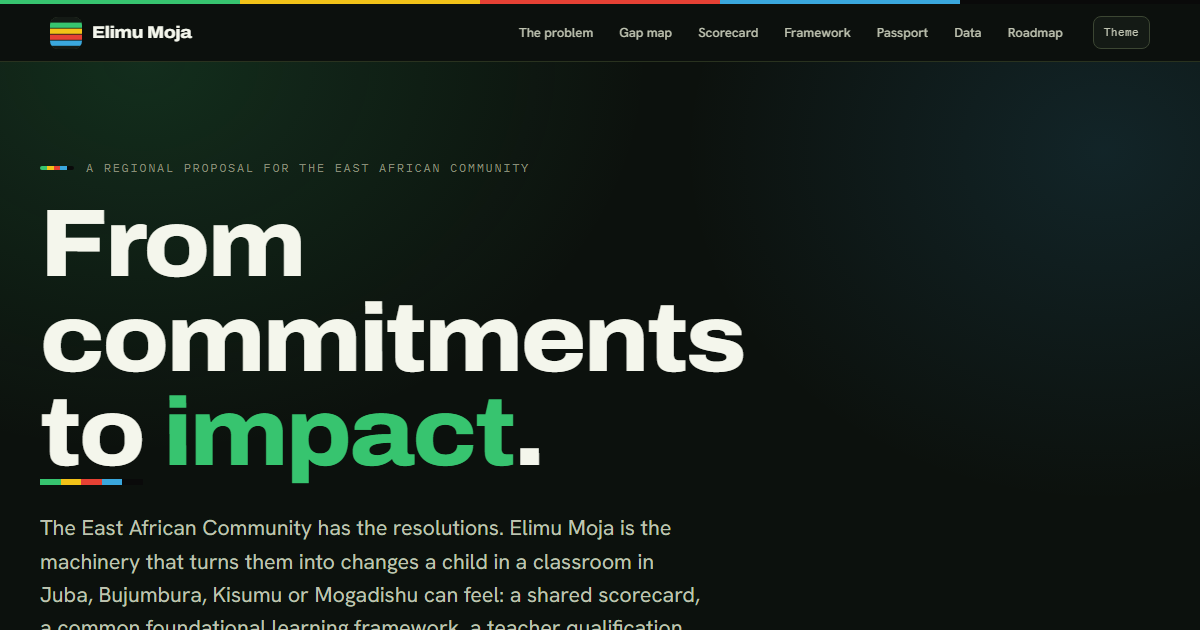
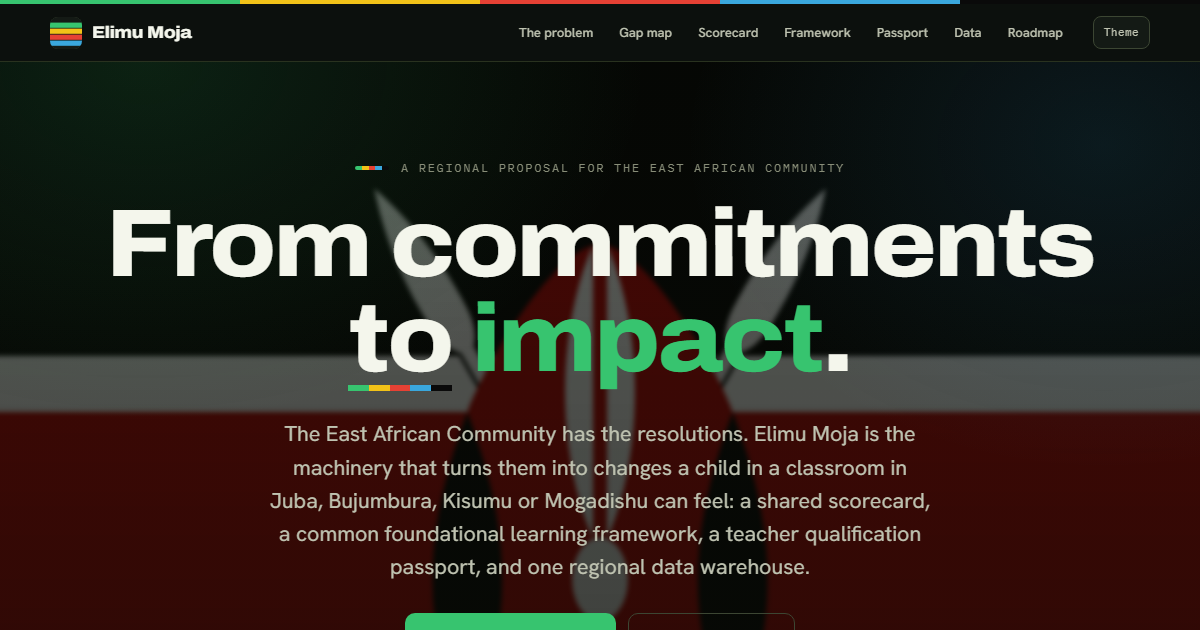
Hero: centered, real national flags cycling behind
- Centre-align the entire hero (eyebrow, headline, sub, buttons,
  flag strip, stat band)
- Hero background is now a slideshow of the eight real national
  flag SVGs (assets/flags/), cross-fading behind a dark scrim
- "Why the region is stuck" is now an interactive regional map:
  each of the eight countries is drawn as a shape filled with its
  real flag; click a country for a panel explaining how the four
  shared problems play out there; the problem tags highlight every
  affected country on the map
- Flags from flagcdn.com (free, no attribution required)

diff --git a/index.html b/index.html
@@ -71,6 +71,7 @@
   --critical: #d03b3b;
 
   --focus:    var(--fg-blue);
+  --hero-scrim: linear-gradient(to bottom, rgba(9,12,7,.58), rgba(9,12,7,.86));
 
   /* per-section accent, overridden inline on each <section> */
   --sa: var(--fg-green);
@@ -117,6 +118,7 @@
   --on-accent:   #f6fbf4;
 
   --focus:    #1a76a6;
+  --hero-scrim: linear-gradient(to bottom, rgba(248,248,243,.78), rgba(248,248,243,.93));
   --sa-soft: color-mix(in srgb, var(--sa) 12%, var(--bg));
 }
 
@@ -196,24 +198,50 @@ sup{ font-size:.66em; line-height:0; }
 .mobile-nav a:last-child{ border-bottom:0; }
 
 /* ---------- hero ---------- */
-.hero{ position:relative; overflow:hidden; padding:clamp(52px,8vw,110px) clamp(16px,4vw,40px) clamp(44px,6vw,84px); }
-.hero::before{
-  content:""; position:absolute; inset:0;
-  background:
-    radial-gradient(60% 50% at 12% 0%, color-mix(in srgb, var(--fg-green) 16%, transparent), transparent 70%),
-    radial-gradient(50% 45% at 92% 8%, color-mix(in srgb, var(--fg-blue) 13%, transparent), transparent 70%);
-  pointer-events:none;
+.hero{ position:relative; overflow:hidden; padding:clamp(56px,8vw,116px) clamp(16px,4vw,40px) clamp(48px,6vw,88px); }
+.hero-bg{ position:absolute; inset:0; z-index:0; overflow:hidden; background:#0a0d08; }
+.hero-bg .flag{
+  position:absolute; inset:-4%; width:108%; height:108%;
+  object-fit:cover; opacity:0;
+  filter:blur(2.4px) brightness(.9) saturate(1.04);
+  animation:flagshow 48s linear infinite;
 }
-.hero-inner{ position:relative; max-width:var(--maxw); margin:0 auto; }
+.hero-bg .flag:nth-child(1){ animation-delay:0s; }
+.hero-bg .flag:nth-child(2){ animation-delay:-6s; }
+.hero-bg .flag:nth-child(3){ animation-delay:-12s; }
+.hero-bg .flag:nth-child(4){ animation-delay:-18s; }
+.hero-bg .flag:nth-child(5){ animation-delay:-24s; }
+.hero-bg .flag:nth-child(6){ animation-delay:-30s; }
+.hero-bg .flag:nth-child(7){ animation-delay:-36s; }
+.hero-bg .flag:nth-child(8){ animation-delay:-42s; }
+@keyframes flagshow{
+  0%   { opacity:0; }
+  1.6% { opacity:.92; }
+  10.8%{ opacity:.92; }
+  12.8%{ opacity:0; }
+  100% { opacity:0; }
+}
+@media (prefers-reduced-motion: reduce){
+  .hero-bg .flag{ animation:none; }
+  .hero-bg .flag:first-child{ opacity:.9; }
+}
+.hero-scrim{
+  position:absolute; inset:0; z-index:1; pointer-events:none;
+  background:
+    radial-gradient(60% 50% at 12% 0%, color-mix(in srgb, var(--fg-green) 14%, transparent), transparent 70%),
+    radial-gradient(50% 45% at 92% 8%, color-mix(in srgb, var(--fg-blue) 12%, transparent), transparent 70%),
+    var(--hero-scrim);
+}
+.hero-inner{ position:relative; z-index:2; max-width:var(--maxw); margin:0 auto; text-align:center; }
 .hero-eyebrow{
   font-family:var(--font-mono); font-size:12px; letter-spacing:.14em; text-transform:uppercase;
-  color:var(--muted); margin:0 0 20px; display:flex; align-items:center; gap:12px;
+  color:var(--muted); margin:0 0 20px; display:flex; align-items:center; justify-content:center; gap:12px;
 }
 .hero-eyebrow::before{ content:""; width:34px; height:4px; border-radius:2px; background:var(--band); }
 .hero h1{
   font-size:clamp(2.6rem, 1.3rem + 6.4vw, 6rem);
   font-weight:800; letter-spacing:-0.025em; line-height:0.98;
-  margin:0; max-width:14ch;
+  margin:0 auto; max-width:16ch;
 }
 .hero h1 .hl{ color:var(--fg-green); }
 .hero h1 .u{
@@ -222,9 +250,9 @@ sup{ font-size:.66em; line-height:0; }
 }
 .hero-sub{
   font-size:clamp(1.06rem, 1rem + 0.6vw, 1.34rem); line-height:1.55;
-  color:var(--ink-2); max-width:56ch; margin:26px 0 0;
+  color:var(--ink-2); max-width:56ch; margin:26px auto 0;
 }
-.hero-cta{ display:flex; flex-wrap:wrap; gap:12px; margin:30px 0 0; }
+.hero-cta{ display:flex; flex-wrap:wrap; justify-content:center; gap:12px; margin:30px 0 0; }
 .btn{
   display:inline-flex; align-items:center; gap:8px;
   font-family:var(--font-display); font-weight:700; font-size:14px; letter-spacing:.01em;
@@ -237,22 +265,22 @@ sup{ font-size:.66em; line-height:0; }
 .btn-ghost{ background:transparent; color:var(--ink); border-color:var(--hair-strong); }
 .btn-ghost:hover{ border-color:var(--fg-green); color:var(--ink); }
 
-.hero-flags{ display:flex; flex-wrap:wrap; align-items:center; gap:22px; margin:42px 0 0; }
+.hero-flags{ display:flex; flex-wrap:wrap; align-items:center; justify-content:center; gap:22px; margin:42px 0 0; }
 .hero-flags img{
-  width:150px; height:auto; border-radius:12px; padding:9px;
+  width:132px; height:auto; border-radius:12px; padding:9px;
   background:#ffffff; border:1px solid var(--hair-strong);
   box-shadow:0 14px 40px -20px rgba(0,0,0,.6);
 }
-.hero-flags .ff-txt{ flex:1 1 340px; }
-.hero-flags .ff-txt p{ font-size:13.5px; color:var(--ink-2); margin:12px 0 0; max-width:52ch; }
+.hero-flags .ff-txt{ flex:0 1 480px; text-align:center; }
+.hero-flags .ff-txt p{ font-size:13px; color:var(--ink-2); margin:14px auto 0; max-width:56ch; }
 
 .hero-stats{
-  display:grid; gap:1px; margin:44px 0 0;
+  display:grid; gap:1px; margin:44px auto 0; max-width:960px;
   grid-template-columns:repeat(2,1fr);
   background:var(--hair); border:1px solid var(--hair); border-radius:var(--radius); overflow:hidden;
 }
 @media (min-width:760px){ .hero-stats{ grid-template-columns:repeat(4,1fr); } }
-.hero-stats > div{ background:var(--surface); padding:20px 18px; }
+.hero-stats > div{ background:var(--surface); padding:20px 18px; text-align:center; }
 .hero-stats dt{ font-family:var(--font-display); font-size:clamp(1.5rem,1.1rem+1.5vw,2.05rem); font-weight:800; letter-spacing:-0.02em; color:var(--ink); }
 .hero-stats dd{ margin:6px 0 0; font-size:12px; color:var(--ink-2); line-height:1.45; }
 
@@ -313,6 +341,47 @@ ul.ticks li::before{
   font-size:1.05rem; line-height:1.55; color:var(--ink);
 }
 .callout .who{ display:block; margin-top:9px; font-family:var(--font-mono); font-size:10.5px; letter-spacing:.06em; text-transform:uppercase; color:var(--sa); }
+
+/* ---------- interactive region map ---------- */
+.mapwrap{ display:grid; gap:20px; margin-top:30px; }
+@media (min-width:900px){ .mapwrap{ grid-template-columns:minmax(0,1fr) 330px; align-items:start; } }
+.mapfig{ background:var(--surface); border:1px solid var(--hair); border-radius:var(--radius); padding:14px; }
+.regionmap{ width:100%; height:auto; display:block; }
+.regionmap .country{ fill:transparent; stroke:var(--surface); stroke-width:2.5; cursor:pointer; transition:fill .14s; }
+.regionmap .cc:hover .country{ fill:rgba(255,255,255,.16); }
+.regionmap .country:focus-visible{ outline:none; stroke:#fff; stroke-width:4; }
+.regionmap .cc.sel .country{ fill:color-mix(in srgb, var(--sa) 60%, transparent); }
+.regionmap .clabel{
+  font-family:var(--font-mono); font-weight:500; fill:#fff; letter-spacing:.03em;
+  paint-order:stroke; stroke:rgba(0,0,0,.62); stroke-width:3px; stroke-linejoin:round;
+  pointer-events:none;
+}
+.regionmap .lake{ fill:#1f6fa8; opacity:.9; stroke:var(--surface); stroke-width:2; pointer-events:none; }
+.mapwrap.hl-curriculum .cc[data-probs~="curriculum"] .country{ fill:color-mix(in srgb, var(--fg-green) 58%, transparent); }
+.mapwrap.hl-teachers   .cc[data-probs~="teachers"]   .country{ fill:color-mix(in srgb, var(--fg-red) 58%, transparent); }
+.mapwrap.hl-data       .cc[data-probs~="data"]       .country{ fill:color-mix(in srgb, var(--fg-blue) 58%, transparent); }
+.mapwrap.hl-followthrough .cc[data-probs~="followthrough"] .country{ fill:color-mix(in srgb, var(--fg-gold) 58%, transparent); }
+.problegend{ display:flex; flex-wrap:wrap; gap:8px; margin:14px 0 0; }
+.pl{
+  font:inherit; font-family:var(--font-body); font-size:12px; cursor:pointer;
+  background:var(--surface); border:1px solid var(--hair-strong); border-radius:999px;
+  padding:6px 12px; color:var(--ink-2); display:inline-flex; gap:7px; align-items:center;
+}
+.pl:hover{ border-color:var(--pc); color:var(--ink); }
+.pl[aria-pressed="true"]{ background:color-mix(in srgb,var(--pc) 16%,var(--surface)); border-color:var(--pc); color:var(--ink); }
+.pl .pd{ width:9px; height:9px; border-radius:2px; background:var(--pc); flex:none; }
+.maphint{ font-family:var(--font-mono); font-size:11px; color:var(--muted); margin:12px 0 0; text-align:center; }
+.mappanel{ background:var(--surface); border:1px solid var(--hair); border-radius:var(--radius); padding:20px 18px; }
+.mappanel h3{ font-size:1.06rem; margin-bottom:6px; font-family:var(--font-display); }
+.mappanel p{ font-size:13px; color:var(--ink-2); margin:0 0 .7em; }
+.mappanel p:last-child{ margin-bottom:0; }
+.mappanel .mp-back{
+  font-family:var(--font-mono); font-size:10.5px; letter-spacing:.04em; color:var(--sa);
+  background:none; border:0; padding:0; margin-bottom:12px; cursor:pointer;
+}
+.mappanel .mp-back:hover{ color:var(--ink); }
+.mappanel .mp-chips{ display:flex; flex-wrap:wrap; gap:6px; margin-top:12px; }
+.mappanel .mp-where{ font-family:var(--font-mono); font-size:11px; color:var(--muted); margin-top:12px; }
 
 /* ---------- gap map ---------- */
 .filterbar{ display:flex; flex-wrap:wrap; gap:8px; margin:24px 0 4px; align-items:center; }
@@ -527,6 +596,17 @@ figure.chart figcaption{ font-size:12px; color:var(--muted); margin-top:10px; li
 
 <!-- ============ HERO ============ -->
 <header class="hero" id="overview">
+  <div class="hero-bg" aria-hidden="true">
+    <img class="flag" src="assets/flags/ke.svg" alt="" decoding="async">
+    <img class="flag" src="assets/flags/tz.svg" alt="" decoding="async">
+    <img class="flag" src="assets/flags/ug.svg" alt="" decoding="async">
+    <img class="flag" src="assets/flags/rw.svg" alt="" decoding="async">
+    <img class="flag" src="assets/flags/bi.svg" alt="" decoding="async">
+    <img class="flag" src="assets/flags/ss.svg" alt="" decoding="async">
+    <img class="flag" src="assets/flags/so.svg" alt="" decoding="async">
+    <img class="flag" src="assets/flags/cd.svg" alt="" decoding="async">
+  </div>
+  <div class="hero-scrim" aria-hidden="true"></div>
   <div class="hero-inner">
     <p class="hero-eyebrow">A regional proposal for the East African Community</p>
     <h1>From commitments <span class="u">to</span> <span class="hl">impact</span>.</h1>
@@ -572,27 +652,77 @@ figure.chart figcaption{ font-size:12px; color:var(--muted); margin-top:10px; li
       up again as data. Everything is standalone.
     </p>
 
-    <div class="grid g2">
-      <div class="card">
-        <span class="tag tag--sa">Curriculum</span>
-        <h3>Eight competency reforms, no common yardstick</h3>
-        <p>Kenya is moving to Competency Based Education with seven core competencies. Uganda has a competency lower-secondary curriculum. Rwanda, Tanzania and others each run their own. There is no agreed definition of what a Grade 3 child should be able to do, so learning cannot be compared or pooled.</p>
+    <div class="mapwrap" id="mapWrap">
+      <div class="mapfig">
+        <svg viewBox="0 0 620 600" class="regionmap" xmlns="http://www.w3.org/2000/svg" role="group" aria-label="Interactive map of the eight EAC partner states. Select a country to see how the region's shared problems play out there.">
+          <defs>
+            <clipPath id="cp-cd"><path d="M32 172 L110 118 L205 128 L232 205 L214 300 L150 348 L58 322 L22 232 Z"/></clipPath>
+            <clipPath id="cp-ss"><path d="M218 120 L236 56 L408 50 L442 120 L360 150 L280 152 Z"/></clipPath>
+            <clipPath id="cp-ug"><path d="M250 200 L282 152 L352 162 L358 236 L308 272 L256 254 Z"/></clipPath>
+            <clipPath id="cp-ke"><path d="M358 162 L410 120 L482 120 L522 212 L500 300 L432 336 L366 300 L358 236 Z"/></clipPath>
+            <clipPath id="cp-rw"><path d="M256 258 L302 266 L305 298 L258 297 Z"/></clipPath>
+            <clipPath id="cp-bi"><path d="M258 302 L305 302 L308 342 L262 341 Z"/></clipPath>
+            <clipPath id="cp-tz"><path d="M150 360 L246 350 L372 348 L432 340 L508 358 L518 470 L432 548 L250 548 L150 470 Z"/></clipPath>
+            <clipPath id="cp-so"><path d="M522 156 L602 176 L600 292 L562 322 L505 250 L505 176 Z"/></clipPath>
+          </defs>
+
+          <g class="cc" data-c="cd" data-probs="followthrough curriculum">
+            <image href="assets/flags/cd.svg" x="22" y="118" width="210" height="230" preserveAspectRatio="xMidYMid slice" clip-path="url(#cp-cd)"></image>
+            <path class="country" d="M32 172 L110 118 L205 128 L232 205 L214 300 L150 348 L58 322 L22 232 Z" tabindex="0" role="button" aria-label="DR Congo"></path>
+            <text class="clabel" x="118" y="238" text-anchor="middle" font-size="14">DR CONGO</text>
+          </g>
+          <g class="cc" data-c="ss" data-probs="data teachers">
+            <image href="assets/flags/ss.svg" x="218" y="50" width="224" height="104" preserveAspectRatio="xMidYMid slice" clip-path="url(#cp-ss)"></image>
+            <path class="country" d="M218 120 L236 56 L408 50 L442 120 L360 150 L280 152 Z" tabindex="0" role="button" aria-label="South Sudan"></path>
+            <text class="clabel" x="330" y="100" text-anchor="middle" font-size="13">SOUTH SUDAN</text>
+          </g>
+          <g class="cc" data-c="ug" data-probs="data curriculum">
+            <image href="assets/flags/ug.svg" x="250" y="152" width="110" height="122" preserveAspectRatio="xMidYMid slice" clip-path="url(#cp-ug)"></image>
+            <path class="country" d="M250 200 L282 152 L352 162 L358 236 L308 272 L256 254 Z" tabindex="0" role="button" aria-label="Uganda"></path>
+            <text class="clabel" x="302" y="212" text-anchor="middle" font-size="12">UGANDA</text>
+          </g>
+          <g class="cc" data-c="ke" data-probs="data curriculum teachers">
+            <image href="assets/flags/ke.svg" x="358" y="120" width="166" height="218" preserveAspectRatio="xMidYMid slice" clip-path="url(#cp-ke)"></image>
+            <path class="country" d="M358 162 L410 120 L482 120 L522 212 L500 300 L432 336 L366 300 L358 236 Z" tabindex="0" role="button" aria-label="Kenya"></path>
+            <text class="clabel" x="440" y="232" text-anchor="middle" font-size="16">KENYA</text>
+          </g>
+          <g class="cc" data-c="rw" data-probs="curriculum data">
+            <image href="assets/flags/rw.svg" x="256" y="258" width="50" height="42" preserveAspectRatio="xMidYMid slice" clip-path="url(#cp-rw)"></image>
+            <path class="country" d="M256 258 L302 266 L305 298 L258 297 Z" tabindex="0" role="button" aria-label="Rwanda"></path>
+            <text class="clabel" x="281" y="284" text-anchor="middle" font-size="10">RW</text>
+          </g>
+          <g class="cc" data-c="bi" data-probs="followthrough data">
+            <image href="assets/flags/bi.svg" x="258" y="302" width="52" height="42" preserveAspectRatio="xMidYMid slice" clip-path="url(#cp-bi)"></image>
+            <path class="country" d="M258 302 L305 302 L308 342 L262 341 Z" tabindex="0" role="button" aria-label="Burundi"></path>
+            <text class="clabel" x="284" y="326" text-anchor="middle" font-size="10">BI</text>
+          </g>
+          <g class="cc" data-c="tz" data-probs="curriculum data">
+            <image href="assets/flags/tz.svg" x="150" y="340" width="368" height="208" preserveAspectRatio="xMidYMid slice" clip-path="url(#cp-tz)"></image>
+            <path class="country" d="M150 360 L246 350 L372 348 L432 340 L508 358 L518 470 L432 548 L250 548 L150 470 Z" tabindex="0" role="button" aria-label="Tanzania"></path>
+            <text class="clabel" x="322" y="458" text-anchor="middle" font-size="17">TANZANIA</text>
+          </g>
+          <g class="cc" data-c="so" data-probs="teachers data">
+            <image href="assets/flags/so.svg" x="505" y="156" width="97" height="166" preserveAspectRatio="xMidYMid slice" clip-path="url(#cp-so)"></image>
+            <path class="country" d="M522 156 L602 176 L600 292 L562 322 L505 250 L505 176 Z" tabindex="0" role="button" aria-label="Somalia"></path>
+            <text class="clabel" x="552" y="238" text-anchor="middle" font-size="13">SOMALIA</text>
+          </g>
+
+        </svg>
+
+        <div class="problegend" id="probLegend">
+          <button class="pl" type="button" data-prob="curriculum" style="--pc:var(--fg-green)" aria-pressed="false"><span class="pd"></span>Curriculum</button>
+          <button class="pl" type="button" data-prob="teachers" style="--pc:var(--fg-red)" aria-pressed="false"><span class="pd"></span>Teachers</button>
+          <button class="pl" type="button" data-prob="data" style="--pc:var(--fg-blue)" aria-pressed="false"><span class="pd"></span>Data</button>
+          <button class="pl" type="button" data-prob="followthrough" style="--pc:var(--fg-gold)" aria-pressed="false"><span class="pd"></span>Follow-through</button>
+        </div>
+        <p class="maphint">Select a country on the map, or a problem tag, to see where it bites.</p>
       </div>
-      <div class="card">
-        <span class="tag tag--sa">Teachers</span>
-        <h3>A teacher is a national employee, not a regional professional</h3>
-        <p>A qualified teacher in Somalia cannot easily be recognised to teach in Kenya. Eight separate teacher services register, certify and deploy in isolation, with no shared standard, no shared registry, and no way to verify a certificate issued next door.</p>
-      </div>
-      <div class="card">
-        <span class="tag tag--sa">Data</span>
-        <h3>Fragmented systems, incomparable numbers</h3>
-        <p>Kenya is replacing NEMIS, where an audit flagged roughly 973,000 ghost learners, with KEMIS. Rwanda runs a School Data Management System, South Sudan has six parallel platforms, others use their own EMIS, OpenEMIS or DHIS2. Definitions, calendars and quality differ. The Council cannot see one honest regional picture on demand.</p>
-      </div>
-      <div class="card">
-        <span class="tag tag--sa">Follow-through</span>
-        <h3>The gap between the hall and the ground</h3>
-        <p>Resolutions are made at conferences and summits. Then information stops flowing. The middle tier, the county and district officers who actually run schools, rarely receive the commitment, the plan, or the budget in a usable form.</p>
-      </div>
+
+      <aside class="mappanel" id="mapPanel" aria-live="polite">
+        <h3>How the shared gaps play out</h3>
+        <p>Four problems repeat across the eight partner states. They are systemic, not any one country's fault. Select a country on the map, or a problem tag, to see the detail.</p>
+        <p style="font-size:11.5px;color:var(--muted);font-family:var(--font-mono);">Illustrative framing, drawn from public sources.</p>
+      </aside>
     </div>
 
     <div class="callout">
@@ -1447,6 +1577,69 @@ figure.chart figcaption{ font-size:12px; color:var(--muted); margin-top:10px; li
       if (panel) panel.classList.toggle("show", !open);
     });
   });
+
+  /* ---------- interactive region map ---------- */
+  var mapWrap = document.getElementById("mapWrap");
+  if (mapWrap){
+    var mapPanel = document.getElementById("mapPanel");
+    var mapDefault = mapPanel.innerHTML;
+    var ccs = Array.prototype.slice.call(mapWrap.querySelectorAll(".cc"));
+    var plBtns = Array.prototype.slice.call(mapWrap.querySelectorAll(".pl"));
+    var PROBS = ["curriculum","teachers","data","followthrough"];
+    var PROB = {
+      curriculum:{ label:"Curriculum", c:"var(--fg-green)", full:"Kenya is moving to Competency Based Education with seven core competencies. Uganda has a competency lower-secondary curriculum. Rwanda, Tanzania and others each run their own. There is no agreed definition of what a Grade 3 child should be able to do, so learning cannot be compared or pooled." },
+      teachers:{ label:"Teachers", c:"var(--fg-red)", full:"A qualified teacher in Somalia cannot easily be recognised to teach in Kenya. Eight separate teacher services register, certify and deploy in isolation, with no shared standard, no shared registry, and no way to verify a certificate issued next door." },
+      data:{ label:"Data", c:"var(--fg-blue)", full:"Kenya is replacing NEMIS, where an audit flagged roughly 973,000 ghost learners, with KEMIS. Rwanda runs a School Data Management System, South Sudan has six parallel platforms, others use their own EMIS, OpenEMIS or DHIS2. Definitions, calendars and quality differ. The Council cannot see one honest regional picture on demand." },
+      followthrough:{ label:"Follow-through", c:"var(--fg-gold)", full:"Resolutions are made at conferences and summits. Then information stops flowing. The middle tier, the county and district officers who actually run schools, rarely receive the commitment, the plan, or the budget in a usable form." }
+    };
+    var CTRY = {
+      cd:{ name:"DR Congo", probs:["followthrough","curriculum"], text:"Francophone, with a school structure unlike the founding members and a large, low-capacity education data system in a conflict-affected setting. Almost every regional education instrument was written before DR Congo joined in 2022." },
+      ss:{ name:"South Sudan", probs:["data","teachers"], text:"Education data is spread across six parallel EMIS platforms and fourteen institutional actors that report different numbers. Teacher shortages are acute, and many teachers were trained informally or in exile." },
+      ug:{ name:"Uganda", probs:["data","curriculum"], text:"Runs a competency lower-secondary curriculum and a local-language thematic curriculum for the early grades. Its EMIS has not completed a full school census since 2017, and private schools are largely uncounted." },
+      ke:{ name:"Kenya", probs:["data","curriculum","teachers"], text:"Moving from CBC to Competency Based Education with seven core competencies. Replacing NEMIS, where an audit flagged roughly 973,000 ghost learners, with KEMIS and a learner ID linked to the civil registry. Trains more teachers than it hires, yet a Kenyan teaching licence is not recognised across the border." },
+      rw:{ name:"Rwanda", probs:["curriculum","data"], text:"Has run a Competence-Based Curriculum since 2015, with English as the medium of instruction from Primary 1, a different early-literacy path from its neighbours. Building an integrated EMIS after a review found twelve unconnected education databases." },
+      bi:{ name:"Burundi", probs:["followthrough","data"], text:"Francophone, with a paper-based EMIS filled in by hand each November. Regional commitments rarely reach the province and commune officers who actually run the schools." },
+      tz:{ name:"Tanzania", probs:["curriculum","data"], text:"Rolling out a new competence-based curriculum from 2024, with a Kiswahili-in-primary, English-in-secondary split that no regional metric accounts for. Basic-education data is divided between PO-RALG's BEMIS and the ministry's ESMIS, with a separate system for Zanzibar." },
+      so:{ name:"Somalia", probs:["teachers","data"], text:"Roughly 58 percent of children are out of school. Instruction is in Somali and Arabic, and federal member states run separate school censuses. A qualified Somali teacher has no route to recognition elsewhere in the Community." }
+    };
+    var esc = function(x){ return String(x).replace(/[&<>]/g, function(m){ return ({"&":"&amp;","<":"&lt;",">":"&gt;"})[m]; }); };
+    function clearHl(){ PROBS.forEach(function(p){ mapWrap.classList.remove("hl-"+p); }); plBtns.forEach(function(b){ b.setAttribute("aria-pressed","false"); }); }
+    function clearSel(){ ccs.forEach(function(g){ g.classList.remove("sel"); }); }
+    function chip(p){ return '<span class="tag" style="color:' + PROB[p].c + ';border-color:' + PROB[p].c + '">' + PROB[p].label + '</span>'; }
+    function wireBack(){ var b = mapPanel.querySelector(".mp-back"); if (b) b.addEventListener("click", resetPanel); }
+    function resetPanel(){ clearHl(); clearSel(); mapPanel.innerHTML = mapDefault; }
+    function showCountry(c){
+      clearHl(); clearSel();
+      var g = mapWrap.querySelector('.cc[data-c="' + c + '"]'); if (g) g.classList.add("sel");
+      var d = CTRY[c];
+      mapPanel.innerHTML = '<button class="mp-back" type="button">&larr; back to overview</button>'
+        + '<h3>' + esc(d.name) + '</h3><p>' + esc(d.text) + '</p>'
+        + '<div class="mp-chips">' + d.probs.map(chip).join("") + '</div>';
+      wireBack();
+    }
+    function showProb(p){
+      clearSel(); clearHl();
+      mapWrap.classList.add("hl-" + p);
+      plBtns.forEach(function(b){ b.setAttribute("aria-pressed", b.getAttribute("data-prob") === p ? "true" : "false"); });
+      var names = Object.keys(CTRY).filter(function(k){ return CTRY[k].probs.indexOf(p) > -1; }).map(function(k){ return CTRY[k].name; });
+      mapPanel.innerHTML = '<button class="mp-back" type="button">&larr; back to overview</button>'
+        + '<h3>' + esc(PROB[p].label) + '</h3><p>' + esc(PROB[p].full) + '</p>'
+        + '<p class="mp-where">Shows up across: ' + esc(names.join(", ")) + '</p>';
+      wireBack();
+    }
+    ccs.forEach(function(g){
+      var path = g.querySelector(".country");
+      var c = g.getAttribute("data-c");
+      path.addEventListener("click", function(){ showCountry(c); });
+      path.addEventListener("keydown", function(e){ if (e.key === "Enter" || e.key === " "){ e.preventDefault(); showCountry(c); } });
+    });
+    plBtns.forEach(function(b){
+      b.addEventListener("click", function(){
+        if (b.getAttribute("aria-pressed") === "true") resetPanel();
+        else showProb(b.getAttribute("data-prob"));
+      });
+    });
+  }
 
   /* ---------- state tiles + bar chart ---------- */
   var data = [
